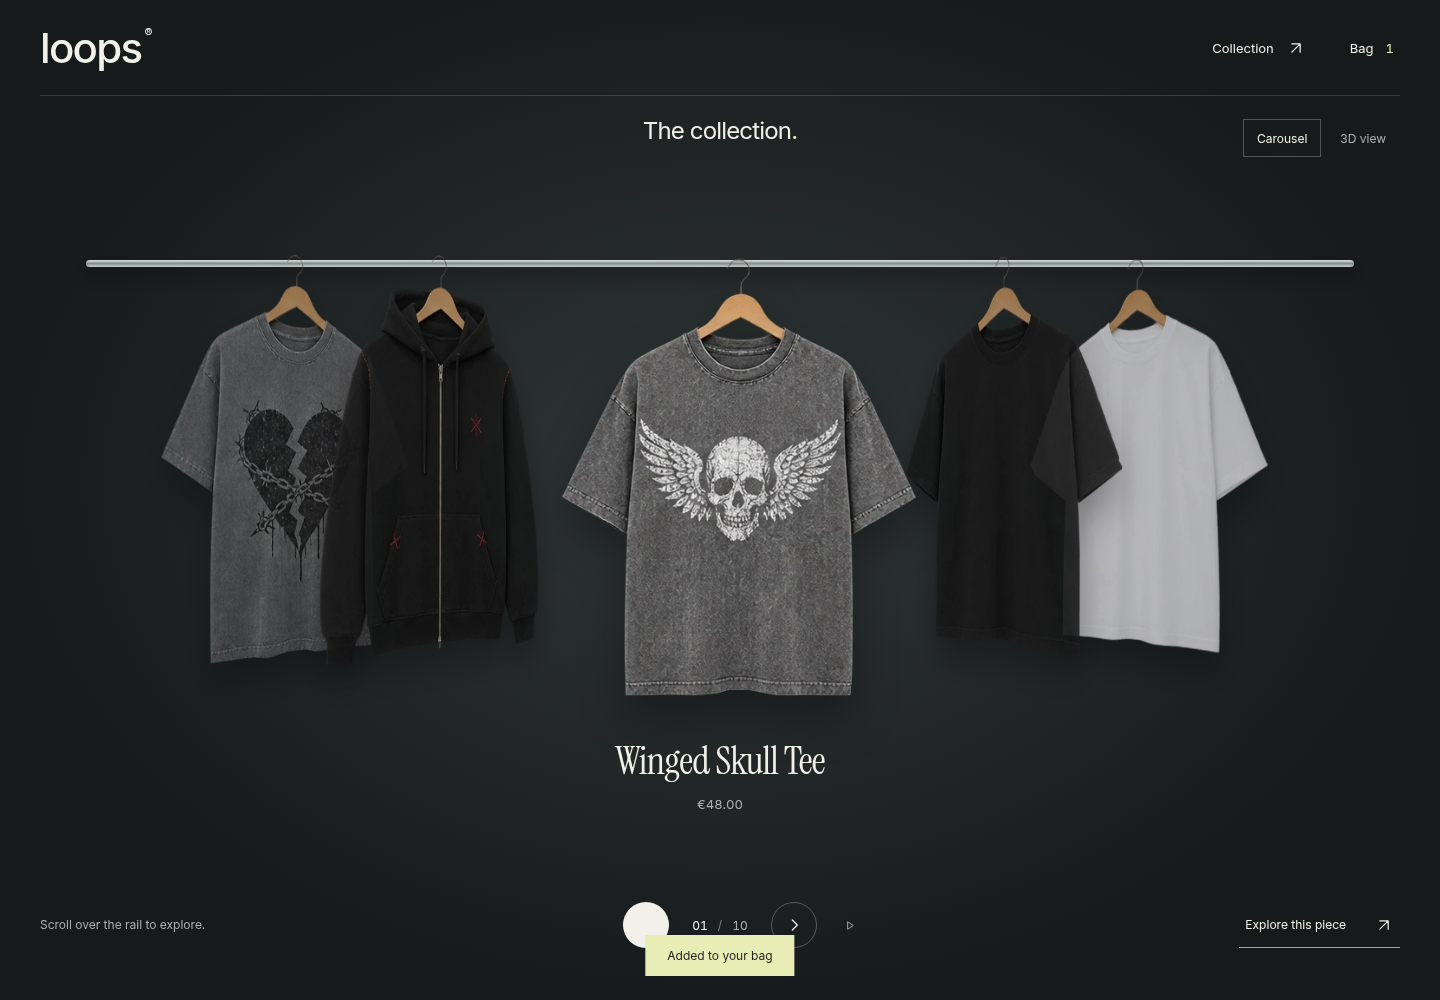
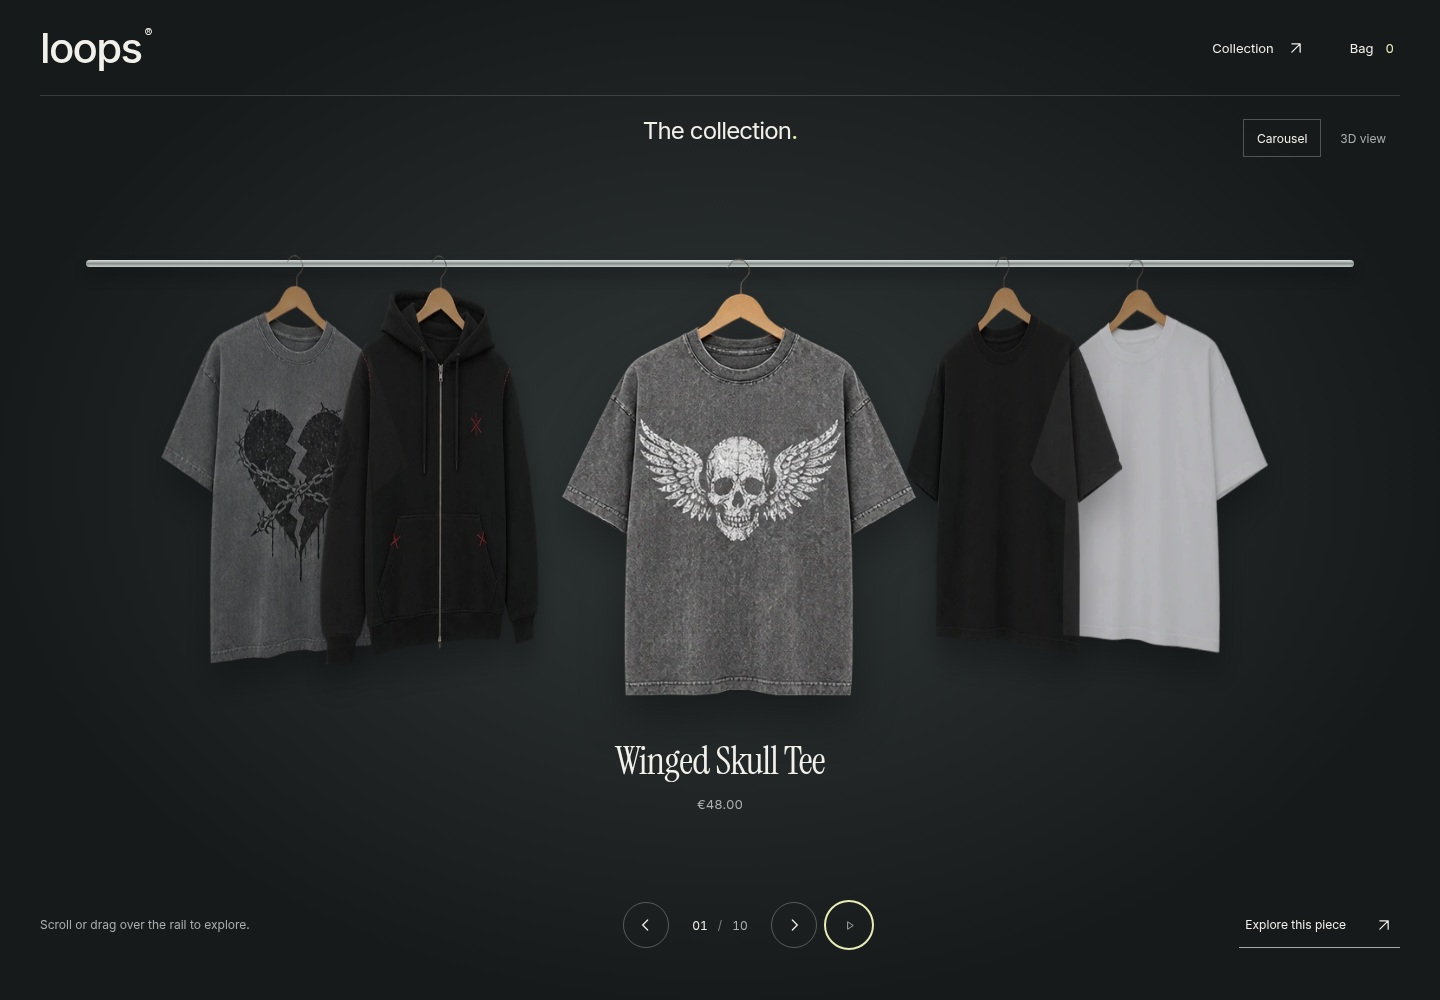
pushed

Changed region(s): [[0.4375, 0.899, 0.5625, 0.992], [0.0625, 0.899, 0.1562, 0.93]]

diff --git a/ui.js b/ui.js
@@ -310,11 +310,11 @@
     rail.addEventListener(
       'wheel',
       (event) => {
-        if (modelMode || state.panel || event.ctrlKey || Math.abs(event.deltaY) < Math.abs(event.deltaX)) return;
+        if (modelMode || state.panel || event.ctrlKey) return;
         event.preventDefault();
         const now = performance.now();
         if (now - lastStepAt < 1450) return;
-        wheelTotal += event.deltaY;
+        wheelTotal += Math.abs(event.deltaX) > Math.abs(event.deltaY) ? event.deltaX : event.deltaY;
         if (Math.abs(wheelTotal) < 28) return;
         step(wheelTotal > 0 ? 1 : -1);
         wheelTotal = 0;
@@ -343,6 +343,33 @@
       isRailHovered = false;
       restartRotation();
     });
+    let mouseStart = null;
+    rail.addEventListener('pointerdown', (event) => {
+      if (event.pointerType !== 'mouse' || event.button !== 0) return;
+      mouseStart = { x: event.clientX, y: event.clientY };
+      rail.dataset.swiped = 'false';
+    });
+    rail.addEventListener('pointermove', (event) => {
+      if (!mouseStart || Math.abs(event.clientX - mouseStart.x) < 10) return;
+      rail.setPointerCapture(event.pointerId);
+      rail.classList.add('is-dragging');
+    });
+    const endDrag = (event) => {
+      if (!mouseStart) return;
+      const dx = event.clientX - mouseStart.x;
+      const dy = event.clientY - mouseStart.y;
+      mouseStart = null;
+      rail.classList.remove('is-dragging');
+      if (rail.hasPointerCapture(event.pointerId)) rail.releasePointerCapture(event.pointerId);
+      if (event.type === 'pointercancel' || Math.abs(dx) < 45 || Math.abs(dx) < Math.abs(dy)) return;
+      rail.dataset.swiped = 'true';
+      step(dx < 0 ? 1 : -1);
+      setTimeout(() => {
+        rail.dataset.swiped = 'false';
+      }, 350);
+    };
+    rail.addEventListener('pointerup', endDrag);
+    rail.addEventListener('pointercancel', endDrag);
     let startX = 0,
       startY = 0;
     rail.addEventListener(

diff --git a/index.html b/index.html
@@ -12,7 +12,7 @@
       href="https://fonts.googleapis.com/css2?family=Inter:wght@400;500;600&family=Instrument+Serif:ital@0;1&display=swap"
       rel="stylesheet"
     />
-    <link rel="stylesheet" href="./styles.css?v=offcut-5" />
+    <link rel="stylesheet" href="./styles.css?v=offcut-6" />
     <link rel="preload" as="image" href="./assets/product-art/offcut-winged-skull.webp" />
   </head>
   <body>
@@ -67,7 +67,7 @@
               <svg viewBox="0 0 24 24" aria-hidden="true"><path d="M9 6v12M15 6v12" /></svg>
             </button>
           </div>
-          <span class="rail-hint">Scroll over the rail to explore.</span>
+          <span class="rail-hint">Scroll or drag over the rail to explore.</span>
           <button class="details-trigger" id="detailsBtn">
             Explore this piece <svg viewBox="0 0 24 24" aria-hidden="true"><path d="M7 17 17 7M7 7h10v10" /></svg>
           </button>
@@ -142,7 +142,7 @@
     </aside>
     <div class="toast" id="toast" role="status"></div>
     <noscript><p class="noscript">Enable JavaScript to browse the interactive collection.</p></noscript>
-    <script src="./products.js?v=offcut-5" defer></script>
-    <script src="./ui.js?v=offcut-5" defer></script>
+    <script src="./products.js?v=offcut-6" defer></script>
+    <script src="./ui.js?v=offcut-6" defer></script>
   </body>
 </html>

diff --git a/styles.css b/styles.css
@@ -914,3 +914,12 @@ h1 span {
     transition-duration: 0.01ms !important;
   }
 }
+
+.clothing-rail,
+.rail-piece {
+  cursor: grab;
+}
+.clothing-rail.is-dragging,
+.clothing-rail.is-dragging .rail-piece {
+  cursor: grabbing;
+}

diff --git a/README.md b/README.md
@@ -1,96 +1,46 @@
-# LOOPS® — Spatial Archive Store
+# LOOPS — Offcut clothing rail
 
-A complete interactive storefront concept based on the user-supplied 6.5-second **LOOPS virtual-store** reference. It includes a real WebGL/Three.js showroom with **10 original procedural `.glb` clothing meshes**, metal clothes rail, studio lighting, camera approach, garment rotations, item selection, editorial overlays, responsive product catalog, details panel, size/colour selection, and a local-storage demo cart.
+A static storefront with the 10 original Offcut garments. Each garment keeps its photographic hanger, artwork, name, and euro price from the supplied reference.
 
-**Important:** This is a functioning, original, reference-inspired prototype, not the original LOOPS website or a pixel-perfect reconstruction. In particular the 3D clothing meshes are original procedural approximations, **not** the exact scanned/simulated garments shown in the video.
+## Run locally
 
-## Start it
+```sh
+./start.sh 8080
+```
 
-1. Extract the ZIP.
-2. Start a web server from the extracted folder:
+Open `http://localhost:8080`. No build step or package installation is needed to browse the store.
 
-   ```bash
-   python3 -m http.server 8080
-   ```
+## Browse
 
-3. Open `http://localhost:8080` in a current Chrome, Edge, Safari, or Firefox browser with **internet access for the Three.js JavaScript module**.
+- Scroll the mouse wheel over the rail, swipe on touch, use the arrow buttons, or press Left/Right.
+- The selected piece moves to the middle. Wheel input advances one garment per gesture, with a 1.45-second cooldown.
+- Automatic browsing waits 8.5 seconds between pieces. Pause it with the playback control. Hovering a garment, opening details, switching to 3D, or hiding the tab pauses automatic browsing.
+- Reduced-motion preferences disable automatic browsing and transitions by default.
+- Select the central garment or “Explore this piece” for details, sizes, and the demo bag.
+- Filter the collection by T-shirts, longsleeves, or layers.
 
-If Python is unavailable, `npx serve .` works (requires Node/npm).
+## Optional 3D models
 
-**Do not launch with `file://`**. ES modules and GLB loading need a local server.
+“3D view” loads the bundled Google model-viewer module only when requested. Drag to rotate the selected model; use “Download .glb model” to save it.
 
-### View the reference-inspired autoplay sequence
+The models are closed, textured mesh approximations derived from the reference images. Their backs and cloth depth are approximate. They are not scanned garments, rigged clothing, or cloth simulations. The main carousel uses the original transparent garment images for visual fidelity.
 
-Open `http://localhost:8080/?demo=1` for the optional 6.5-second demo:
-- Starts with blurred studio/large LOOPS wordmark.
-- Camera approaches the rack.
-- Harness Tee rotates into focus.
-- Halftone Acid Tee becomes the final featured object.
+Regenerate the Offcut models with Python, Pillow, and NumPy:
 
-The default website is fully user-controlled rather than autoplaying.
-
-## Interactions
-
-- Scroll or select **ENTER THE STORE** to enter the 3D showroom.
-- Drag horizontally on the canvas to select garments.
-- Click a garment in the 3D scene to select it; use arrow buttons or keyboard `←` / `→`.
-- Click **Store**, **Man**, or **Woman** to filter the collection.
-- Click **EXPLORE THIS PIECE** to open product details. Sizes and color swatches update the selection. Color variants apply an illustrative material tint, **not a separate authored texture**.
-- Click **ADD TO ARCHIVE BAG**. Cart items, subtotal, quantity adjustment, and removal work. Cart state persists in local storage.
-- Use **menu**, **← back**, and the catalog section.
-- Checkout deliberately remains disabled; no payment provider or inventory database is connected.
-
-## Technology
-
-This is a lightweight static site with no build step:
-
-- Semantic HTML, CSS, and vanilla JavaScript.
-- **Three.js r187 / v0.187.0**, loaded via an official import-map convention from jsDelivr.
-- Three.js `GLTFLoader` for bundled GLB assets.
-- Eased camera motion, damped product transforms and per-frame 3D picking.
-- High-DPI and mobile pixel-ratio caps, lowered visual complexity on small screens, and reduced-motion handling.
-- Python `trimesh` + Pillow asset generator (for rebuilding the original demo meshes).
-- Local SVG-based CSS grain, semantic controls, keyboard navigation, loading and error fallback.
-
-The website needs internet access **to fetch Three.js from jsDelivr at runtime**; garment GLBs and all previews are stored locally. To make it fully offline, download a matching version of `three.module.js` and `GLTFLoader.js` (and their dependencies), and update the import map to your self-hosted module paths.
+```sh
+python scripts/build_offcut_models.py
+```
 
 ## Files
 
-```text
-index.html                Web page and browser import map
-styles.css                Full visual system and responsive styles
-ui.js                     Product state, scrolling, filtering, cart, panels, demo
-scene.js                  Three.js showroom and 3D interactions
-assets/garments/          10 original GLB garment meshes
-assets/product-art/       10 original garment catalog images
-assets/textures/          10 authored fabric and graphic textures
-assets/fallback-*.jpg     Static cinematic preview if WebGL/Three.js can't load
-scripts/build_garments.py Rebuild all garment meshes and product art
-scripts/build_fallback.py Original generated backup poster tool
-scripts/build_reference_preview.py Builds static preview from user-supplied video frames
-ASSET_MANIFEST.md          Asset provenance and replacement instructions
-QA_REPORT.md              Verified and unverified functionality
-```
+- `index.html`: rail, collection, details, and bag.
+- `products.js`: the 10 active Offcut products.
+- `ui.js`: carousel, wheel/swipe handling, playback, filters, bag, and lazy 3D loading.
+- `styles.css`: responsive layout, rail transforms, and reduced-motion styles.
+- `assets/product-art/offcut-*.webp`: transparent reference cutouts with hangers.
+- `assets/garments/offcut-*.glb`: downloadable model approximations.
+- `assets/vendor/`: local model-viewer module and its license.
 
-## Replace with premium 3D assets
+The earlier procedural scene and original archive assets remain in the repository for reference; the active page does not import that scene or display those garments.
 
-The model references researched earlier are **not bundled** because downloads and reuse permissions could not be verified here:
-
-- [Sketchfab shirt on hanger](https://sketchfab.com/3d-models/cc0-shirt-on-hanger-846d8f285fcb426498033ae67aee2d10) — listing has conflicting CC0/CC BY signals; check actual license.
-- [CGTrader hanging garment pack](https://www.cgtrader.com/3d-models/character/clothing/sweatshirt-hoodie-polo-and-t-shirt-on-hanger-3d-model) — commercial asset; purchase/license may be required.
-- [Sketchfab hanger and long-sleeve](https://sketchfab.com/3d-models/hangers-and-long-sleeve-shirt-14cc81980a06473a820f811596418fae) — verify license before use.
-
-To replace one garment:
-1. Obtain a model you have permission to use, with textures.
-2. Export a valid **GLB** from Blender, orient the front toward **+Z**, origin at the hanger/neck line (`y=0`), and fabric extending to roughly `y=-1.7`. Scale width to around 1–2 world units.
-3. Replace the corresponding file in `assets/garments/` with the existing filename.
-4. Replace the associated product preview `.webp` in `assets/product-art/` if desired.
-5. Test the fit and update the product details in `ui.js`.
-
-## Visual QA note
-
-The on-page static fallback uses preview frames derived from **the user-provided MP4** (not a rendered screenshot of our WebGL geometry). It is clearly labeled **STATIC PREVIEW** when Three.js cannot run.
-
-The original 3D geometry and texture files were validated locally. UI behaviors were tested in headless Chromium via injected local resources. **Live CDN-dependent Three.js rendering could not be fully tested in this environment because external network requests in the test browser were blocked.** Perform a normal online browser verification after extracting and serving the package.
-
-For a commercial deployment, license the production assets/branding appropriately, connect an actual catalog + checkout backend, and conduct additional cross-browser/assistive-technology testing.
+The bag persists locally. Checkout remains disabled; this demonstration does not process payments.

diff --git a/QA_REPORT.md b/QA_REPORT.md
@@ -1,40 +1,37 @@
-# QA report — 2026-11-07
+# Current QA — Offcut rail
 
-## Passed
+The final active collection contains only the 10 original Offcut garments, with their original visible hangers. Additional archive pieces are excluded.
 
-- [x] `ui.js` passes `node --check` syntax validation.
-- [x] `scene.js` passes `node --check` syntax validation.
-- [x] All **10 GLB files** load into `trimesh` as valid scenes with finite geometry bounds and a mesh.
-- [x] 10 texture files + 10 product-art files are present.
-- [x] Intro UI mounts in headless Chromium via injected CSS/JavaScript and local data assets.
-- [x] Scroll state displays the showroom UI.
-- [x] Arrow button selection changes the correct product name.
-- [x] Details drawer opens.
-- [x] Add-to-cart opens the cart drawer and increases count.
-- [x] All 10 catalog products render; sample screenshots made.
-- [x] No uncaught UI JavaScript errors in the injected tests.
-- [x] Local HTTP server serves the site assets (`200 OK`).
-- [x] Reduced-motion CSS rules present.
+## Browser verification
 
-## Not verified
+Verified with isolated headless Chrome against the local static site at desktop 1440 × 1000 and mobile 390 × 844.
 
-- [ ] The live, CDN-loaded Three.js scene was **not** visually verified due to restricted internet/browser routing in this test environment.
-- [ ] WebGL 3D raycaster, lighting and live garment texture appearance need a normal online browser QA pass.
-- [ ] Mobile GPU performance has not been measured on physical devices.
-- [ ] Payment checkout intentionally not implemented.
-- [ ] Third-party premium garments have not been bundled or redistributed.
+- All 10 products render and settle at the horizontal centre of the rail.
+- Previous/next navigation wraps correctly through the collection.
+- Vertical mouse-wheel scrolling moves one garment at a time and respects the 1.45-second cooldown.
+- Horizontal trackpad scrolling works in both directions.
+- Mouse dragging works in both directions without opening details after a drag.
+- Automatic browsing advances exactly one garment after 8.5 seconds; the pause control stops it.
+- Reduced-motion preferences disable autoplay and transitions by default.
+- Size selection, adding to the bag, product images, euro subtotal, and panel closing work.
+- The optional 3D viewer loads the selected GLB, and its download link matches the selection.
+- Filtering returns 5 T-shirts and 10 total pieces.
+- Mobile selected garment remains centred, with no horizontal page overflow.
+- No JavaScript page errors or missing asset responses were recorded in the final browser checks.
 
-## Browser verification checklist for deployment
+## Source checks
 
-1. Open `http://localhost:8080/` with network access. Confirm preloader disappears and the full 3D clothes rail appears.
-2. Scroll until selected Harness Tee turns to face the camera.
-3. Drag horizontally; confirm another garment rotates forward and the label changes.
-4. Click a garment/hanger, switch categories, inspect details, change size/color, and add items to the cart.
-5. Visit `/?demo=1` and check the intro/approach/Harness/Acid timing.
-6. Test 1440×960, 1280×800, 768×1024 and 390×844 and check browser console.
+JavaScript syntax checks, Prettier formatting checks, and `git diff --check` pass.
 
-## Additional mobile checks
+The Impeccable detector reported stylistic font warnings for the retained Inter / Instrument Serif pairing. This pairing follows the existing project and supplied Offcut reference; the warnings were reviewed and retained intentionally.
 
-- [x] 390 × 844 UI layout rendered in an injected headless Chromium test.
-- [x] Touch-size navigation targets, product details and demo cart controls responded to simulated clicks.
-- [x] Fixed a static-fallback warning layer that initially intercepted the garment navigation button on mobile (`pointer-events: none`).
+## Material limitations
+
+The downloadable GLBs approximate clothing shape from the supplied images. They are not scanned, rigged, or simulation-ready garments. The photographic rail is the primary presentation.
+
+Checkout is disabled. The bag is a local demonstration.
+
+## Visual evidence
+
+- `preview-rail-desktop.png`
+- `preview-rail-mobile.png`

diff --git a/ASSET_MANIFEST.md b/ASSET_MANIFEST.md
@@ -1,25 +1,13 @@
-# Asset manifest / provenance
+# Active asset provenance
 
-| Asset group | Count | Status | Provenance | Fidelity |
-|---|---:|---|---|---|
-| Garment GLB models | 10 | Bundled, validated | Original procedural geometry generated with `scripts/build_garments.py` | Genuine mesh; approximate garment silhouettes |
-| Garment textile textures | 10 | Bundled | Original procedural drawings/noise/textures | Approximate patterns |
-| Product catalog previews | 10 | Bundled | Original procedural image generation | Stylized garment renders |
-| Chrome clothing rack | 1 | Constructed in Three.js | Original generated primitives | Matches visual composition, not exact original mesh |
-| Hangers | 10 | Constructed in Three.js | Original tube geometry | Original, approximate |
-| Studio scene | 1 | Constructed in Three.js/CSS | Original background, lights, fog, floor | Inspired by user reference |
-| Static preview intro | 1 | Bundled | Original generated fallback illustration | Reference-inspired |
-| Static showroom/acid previews | 2 | Bundled | Edited frames from the user-supplied MP4 | Visually close, **not WebGL renders** |
-| Three.js library | 1 CDN module + addon | Runtime dependency | jsDelivr, Three.js under MIT license | Exact known version 0.187.0 |
-| Font | External with local fallback | Optional | Google Fonts Inter / system fallback | Close approximation |
-| Premium reference garment assets | 0 | Not bundled | Third-party marketplace listings are only leads | Not available for verified redistribution |
+The active collection consists of 10 Offcut pieces from the user-supplied `offcut-clothing-rail/index.html` reference.
 
-## Model specification
+- `assets/product-art/offcut-*.webp`: garment cutouts extracted from the reference's shared sprite using its original outlines and alpha transparency. The photographs include their original wooden hangers. Names and euro prices follow the reference.
+- `assets/garments/offcut-*.glb`: image-derived cloth meshes built with `scripts/build_offcut_models.py`. They have textured fronts, approximate plain backs, closed edges, and smooth vertex normals. These are approximate display models, not scans or clothing simulation assets.
+- `assets/vendor/model-viewer.min.js`: Google model-viewer 4.1.0, obtained from jsDelivr's official npm package. Its Apache 2.0 license is included beside the module. The module loads only after switching to 3D view.
+- Fonts: Inter and Instrument Serif, loaded through Google Fonts with local fallback families.
+- UI icons: simple inline SVG geometry.
 
-Generated GLB assets use a consistent forward orientation (+Z), a neck reference close to `y=0`, width around 1.8–2.2 world units including sleeves, depth around 0.3 world units, and fabric bottom near `y=-1.6…-1.85`.
+Earlier archive artwork, procedural GLBs, and fallback screenshots are retained as repository history/reference assets. They are not part of the active product data or the initial showroom download.
 
-Geometry has a front and back cloth surface and sleeve panels with a textured physical/PBR material. It is not cloth simulation or rigged fabric. There are approximately 5,872 triangles per GLB, excluding dynamically constructed details.
-
-## Reference licensing
-
-The supplied video is used solely as a user-provided artistic reference and as the source of two explicitly labeled **static fallback screenshots**. The package should not be represented as the official LOOPS website. Permission from the relevant rights holder may be needed before public/commercial distribution of branding or user-supplied reference frames.
+The experimental additional 10 archive cutouts were removed from the active collection and working tree after the user clarified that only the original 10 garments should remain.
